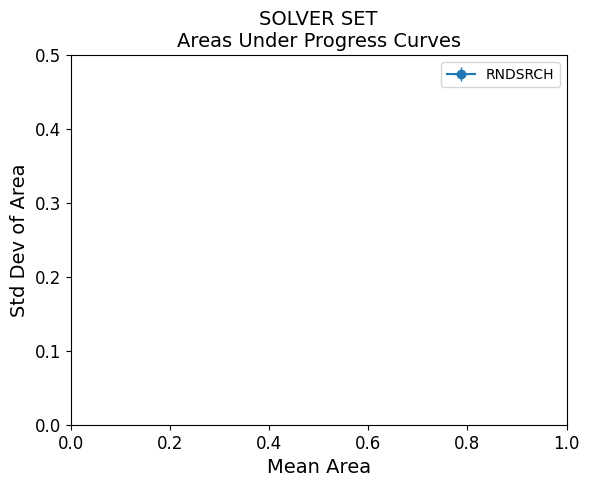
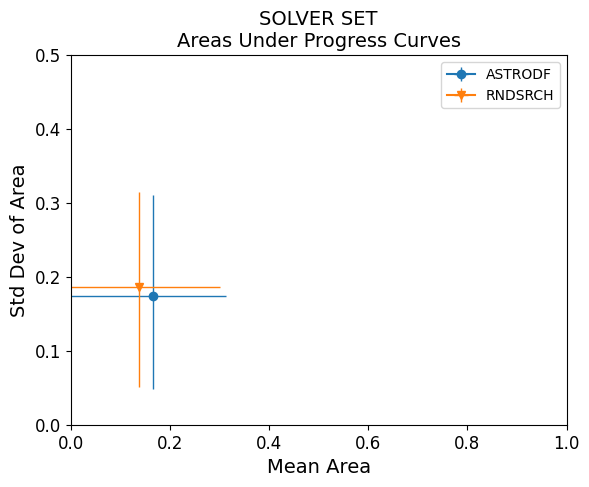
Plotting capabilities changes

Changed region(s): [[0.1222, 0.4004, 0.3973, 0.8008], [0.8251, 0.1232, 0.9474, 0.2156], [0.764, 0.1848, 0.7946, 0.2156]]

diff --git a/simopt/GUI.py b/simopt/GUI.py
@@ -1,7 +1,7 @@
 from os import path
 from random import expovariate
 import tkinter as tk
-from tkinter import Place, ttk, Scrollbar, filedialog
+from tkinter import NONE, Place, ttk, Scrollbar, filedialog
 from timeit import timeit
 from functools import partial
 from tkinter.constants import FALSE, MULTIPLE, S
@@ -1490,7 +1490,7 @@ class Experiment_Window(tk.Tk):
         self.postrep_window.title("Plotting Page")
         # self.master.destroy()
         # Plot_Window(self.postrep_window, self.my_experiment.experiments[0], self, True, self.meta_experiment_master_list[row_index])
-        Plot_Window(self.postrep_window, exps, self)
+        Plot_Window(self.postrep_window,self, experiment_list = exps, meta= True, metaList = self.my_experiment)
 
     def run_meta_function(self, integer):      
 
@@ -2173,7 +2173,7 @@ class Post_Normal_Window():
             self.postrep_window.geometry("1000x800")
             self.postrep_window.title("Plotting Page")
             self.master.destroy()
-            Plot_Window(self.postrep_window, self.post_norm_exp_list, self.main_window)
+            Plot_Window(self.postrep_window, self.main_window, experiment_list = self.post_norm_exp_list)
 
             return
 
@@ -2200,14 +2200,15 @@ class Plot_Window():
         experiment_list : list
             List of experiment object arguments
         """
-        def __init__(self, master, experiment_list, main_window, meta=False, metaList=None):
+        def __init__(self, master, main_window, experiment_list = None, meta=False, metaList=None):
 
             self.metaList = metaList
             self.master = master
+            self.meta_status = meta
             self.experiment_list = experiment_list
             self.main_window = main_window
             self.plot_types_inputs = ["cdf_solvability", "quantile_solvability","diff_cdf_solvability","diff_quantile_solvability"]
-            self.plot_type_names = ["Mean Progress Curve", "Quatile Progress Curve", "Solve Time CDF", "Scatter Plot", "CDF Solvability","Quantile Solvability","CDF Difference Plot", "Quanitle Difference Plot"]
+            self.plot_type_names = ["Mean Progress Curve", "Quantile Progress Curve", "Solve Time CDF", "Scatter Plot", "CDF Solvability","Quantile Solvability","CDF Difference Plot", "Quantile Difference Plot"]
             self.num_plots = 0
             self.plot_exp_list = []
             self.plot_type_list = []
@@ -2445,7 +2446,8 @@ class Plot_Window():
             i = len(self.plot_type_list)-1
             exp = self.plot_exp_list[len(self.plot_exp_list)-1]
             exp2 = [[e] for e in exp]
-
+            print(exp)
+            print(exp2)
             #keep as list of list for multiple solvers if using exp2
             #one problem, multiple solvers
 
@@ -2466,10 +2468,37 @@ class Plot_Window():
             plot_together = param_value_list[1]
             hw = param_value_list[2]
             
+            #if (self.experiment_list != None) and (self.metaList == None):
+                #exp = self.plot_exp_list[len(self.plot_exp_list)-1]
+                #print(exp)
+                #for item in exp:
+                   # print(item.solver.name)
+            #elif (self.metaList != None) and (self.experiment_list == None):
+                #print(self.metaList)
+                #for item in self.metaList:
+                    #print(item.solver.name)
+            #else:
+               # exp = self.plot_exp_list[len(self.plot_exp_list)-1]
+                #print("This is what exp is",exp)
+                #print("This is what metaList is", self.metaList.experiments)
+                #for item in exp:
+                    #print(item.solver.name)
+                #print("End of exp,starting self.metaList") 
+                #for sublist in self.metaList.experiments:
+                    #for item in sublist:
+                        #print(item.solver.name)
+            if self.metaList != None:
+                exp = []
+                exp2 = self.metaList.experiments
+                for sublist in self.metaList.experiments:
+                    for item in sublist:
+                        exp.append(item)
+
+
             if self.plot_type_list[i] == "Mean Progress Curve":
                 path_name = wrapper_base.plot_progress_curves(exp,plot_type="mean", normalize=param_value_list[3], all_in_one=plot_together, plot_CIs=ci, print_max_hw=hw)
                 param_list = {"plot CIs":ci, "print max hw":hw, "normalize":param_value_list[3]}
-            elif self.plot_type_list[i] == "Quatile Progress Curve":
+            elif self.plot_type_list[i] == "Quantile Progress Curve":
                 path_name = wrapper_base.plot_progress_curves(exp,plot_type = "quantile",  beta=param_value_list[3], normalize=param_value_list[4], all_in_one=plot_together, plot_CIs=ci, print_max_hw=hw)
                 param_list = {"plot CIs":ci, "print max hw":hw, "normalize":param_value_list[4], "beta":param_value_list[3]}
             elif self.plot_type_list[i] == "Solve time CDF":
@@ -2487,7 +2516,7 @@ class Plot_Window():
             elif self.plot_type_list[i] == "CDF Difference Plot":
                 param_list = {"plot CIs":ci, "print max hw":hw, "solve tol":param_value_list[3],"ref solver":param_value_list[4]}
                 path_name = wrapper_base.plot_solvability_profiles(exp2, plot_type = "diff_cdf_solvability", plot_CIs=ci, print_max_hw=hw,solve_tol=param_value_list[3], ref_solver=param_value_list[4])
-            elif self.plot_type_list[i] == "Quanitle Difference Plot":
+            elif self.plot_type_list[i] == "Quantile Difference Plot":
                 param_list = {"plot CIs":ci, "print max hw":hw, "solve tol":param_value_list[3],"ref solver":param_value_list[5],"beta":param_value_list[4]}
                 path_name = wrapper_base.plot_solvability_profiles(exp2, plot_type = "diff_quantile_solvability", plot_CIs=ci, print_max_hw=hw, solve_tol=param_value_list[3], beta=param_value_list[4],ref_solver=param_value_list[5])
             else:
@@ -2582,7 +2611,7 @@ class Plot_Window():
             # beta=0.50, normalize=True
             if plot_choice == "Mean Progress Curve":
                 param_list = {'normalize':True}
-            elif plot_choice == "Quatile Progress Curve":
+            elif plot_choice == "Quantile Progress Curve":
                 param_list = {'beta':0.50, 'normalize':True}
             elif plot_choice == "Solve Time CDF":
                 param_list = {'solve_tol':0.1}
@@ -2594,7 +2623,7 @@ class Plot_Window():
                 param_list = {'solve_tol':0.1, 'beta':0.5}
             elif plot_choice == "CDF Difference Plot":
                 param_list = {'solve_tol':0.1, 'ref_solver':None}
-            elif plot_choice == "Quanitle Difference Plot":
+            elif plot_choice == "Quantile Difference Plot":
                 param_list = {'solve_tol':0.1, 'beta':0.5, 'ref_solver':None}
             else:
                 print("invalid plot?")
@@ -2687,7 +2716,7 @@ class Plot_Window():
             c = 0
             #(self.plot_exp_list)
             #  self.plot_types_inputs = ["cdf_solvability", "quantile_solvability","diff_cdf_solvability","diff_quantile_solvability"]
-            # self.plot_type_names = ["Mean Progress Curve", "Quatile Progress Curve", "Solve time cdf", "Scatter Plot", "cdf Solvability","Quantile Solvability","cdf Difference Plot", "Quanitle Difference Plot"]
+            # self.plot_type_names = ["Mean Progress Curve", "Quantile Progress Curve", "Solve time cdf", "Scatter Plot", "cdf Solvability","Quantile Solvability","cdf Difference Plot", "Quanitle Difference Plot"]
 
             for i,path_name in enumerate(self.all_path_names):
 
